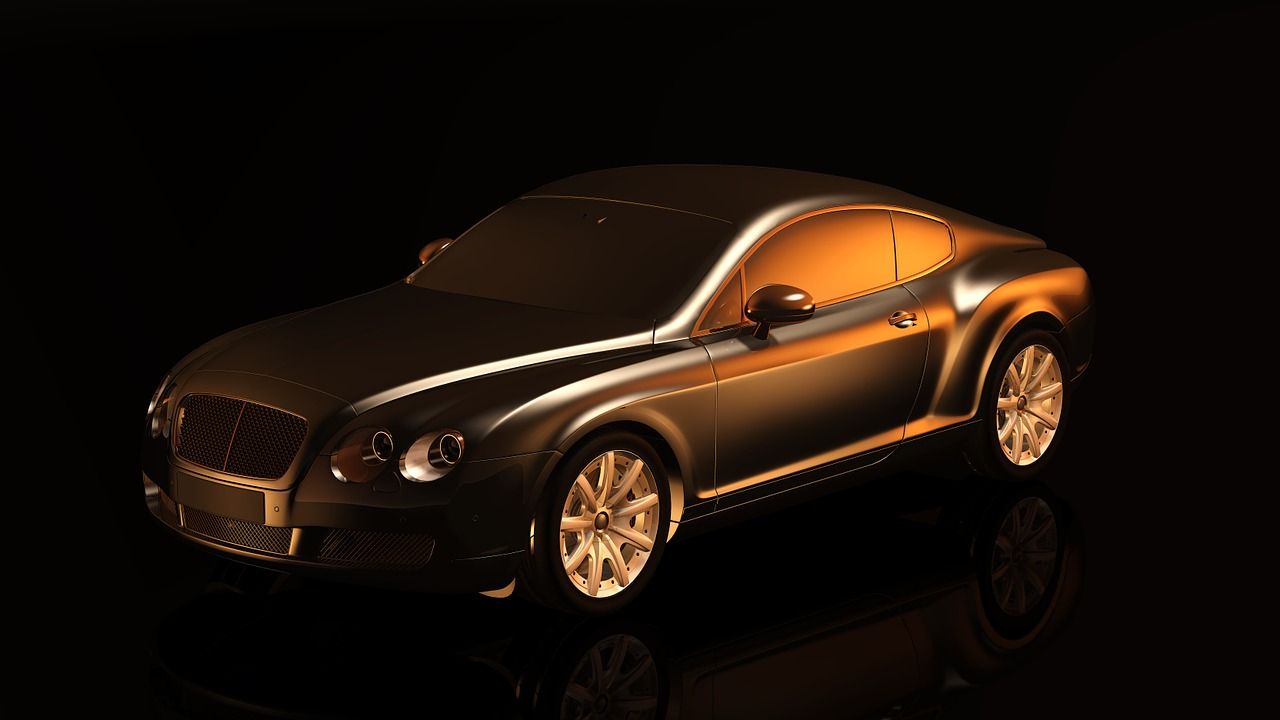
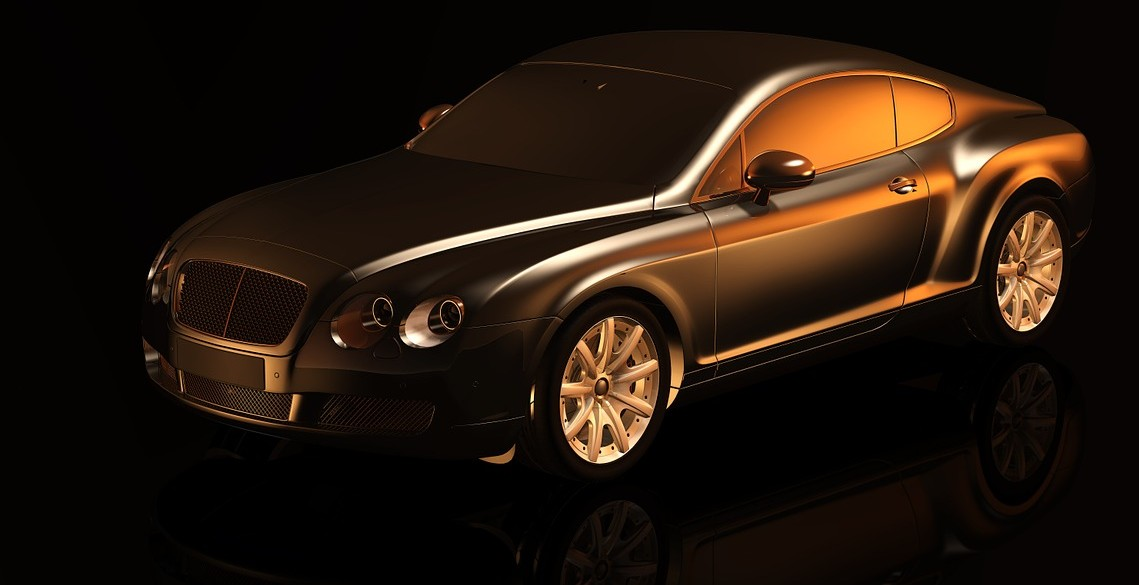
Styled the main background image resizing ot to fit the viewport height

diff --git a/css/style.css b/css/style.css
@@ -29,19 +29,22 @@ header{
     right: 0;
     z-index: 1000;
     display: flex;
-    align-items: center;
-    justify-content: space-between;
+    align-items: left;
+    justify-content: left;
     background: transparent;
-    padding: 15px 100px;
+    padding: 0px 0px;
 }
 
 .logo img{
-    width: 200px;
+    width: 150px;
+    height: 75px;
 }
 
-nav{
+.nav{
     flex: 1;
     text-align: right;
+    height: 100px;
+
 }
 
 nav ul{
@@ -62,18 +65,17 @@ a{
     color: black;
 }
 
-nav a:hover::after{
-    width: 100%;
-}
 
 .home{
-    width: 100%;
-    min-height: 100vh;
-    position: relative;
+    
+    max-width: 100vw;
+    height: 600px;
+   
     background: url('/images/maserati.jpg');
     background-repeat: no-repeat;
-    background-position: center right;
+    background-position: center center;
     background-size: cover;
+    padding: 0px 0px;
 }
 
 .text h1{
